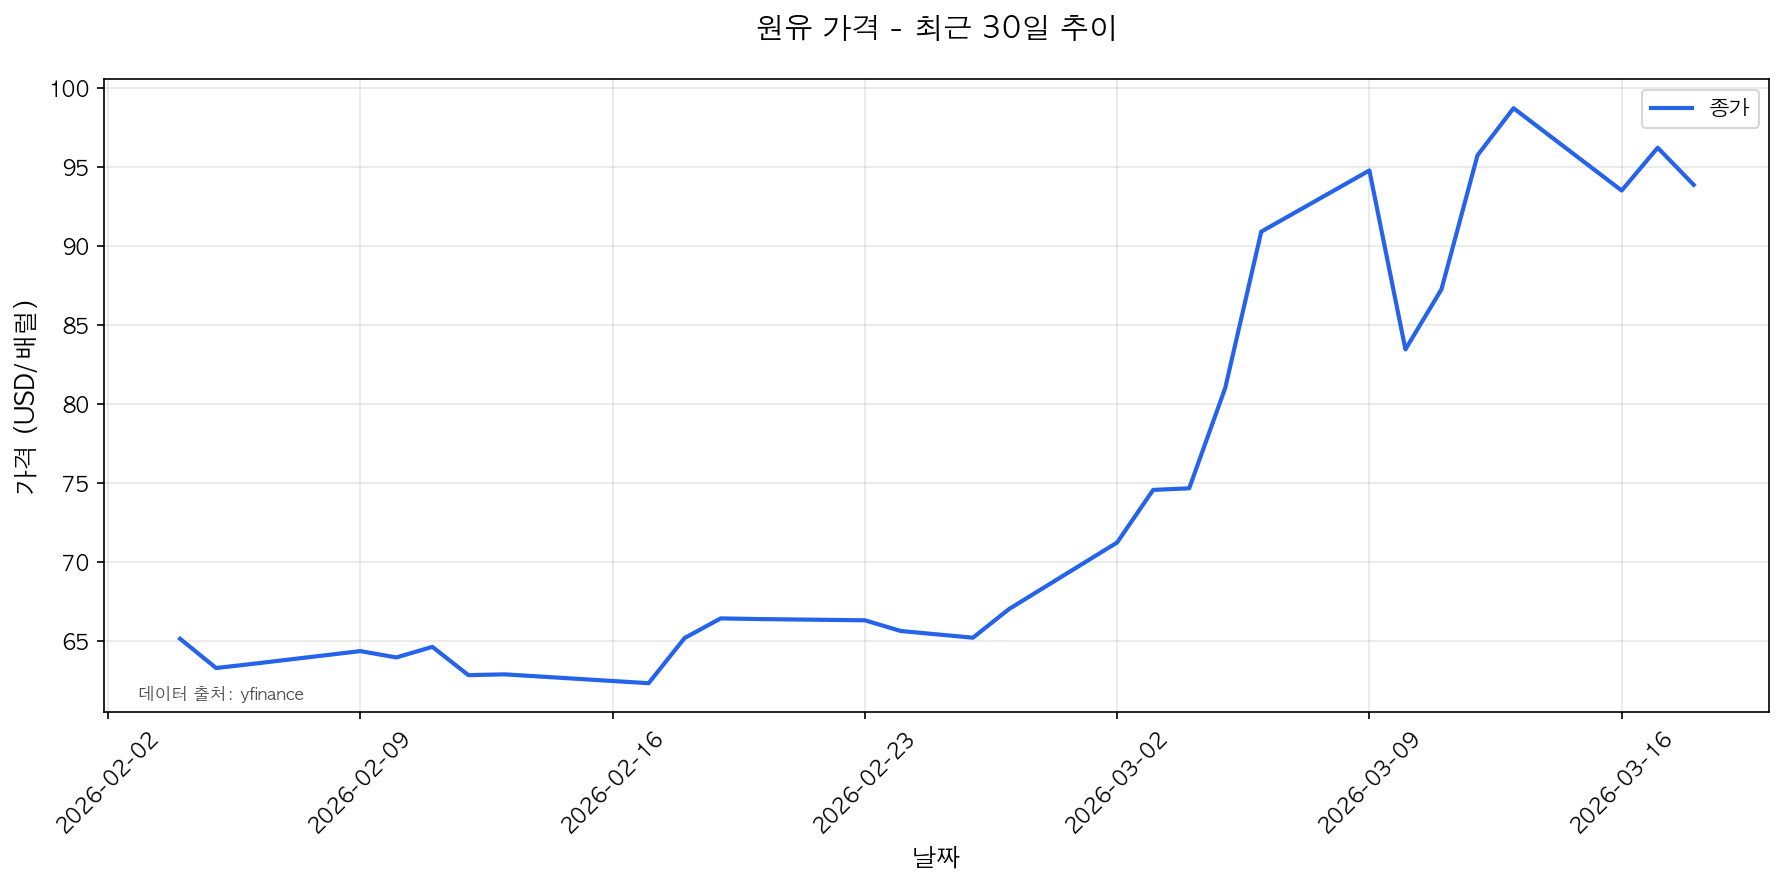
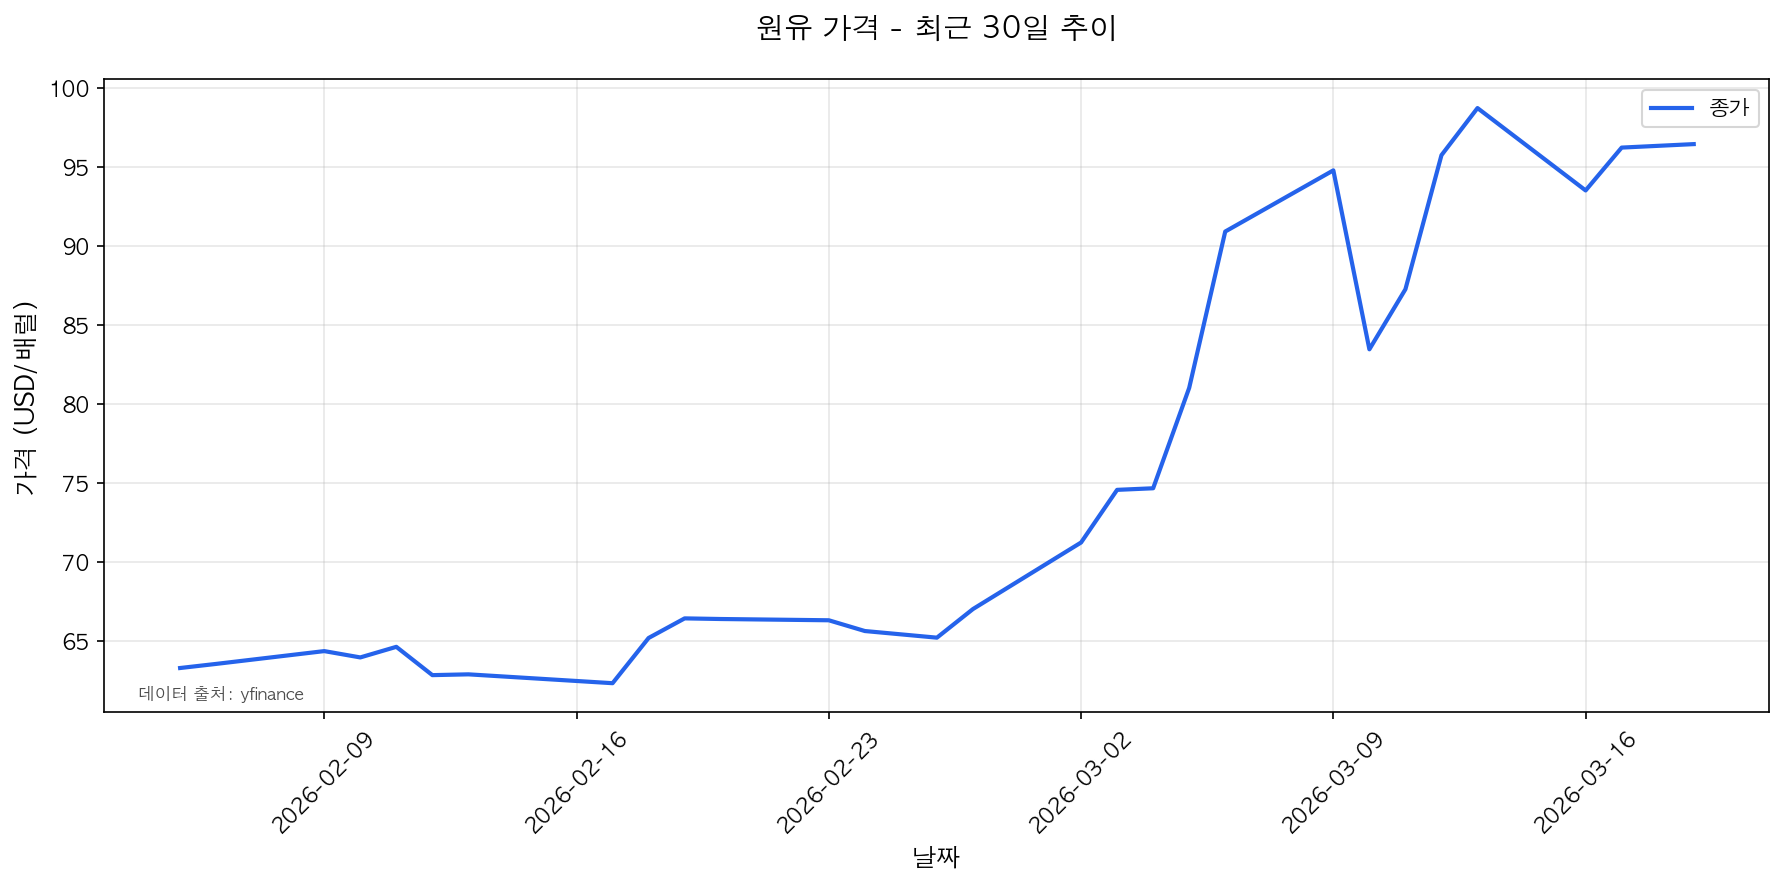
Update economic trends analysis - 2026-02-25 data refresh

diff --git a/_posts/2026-03-19-economic-trends-analysis.md b/_posts/2026-03-19-economic-trends-analysis.md
@@ -20,32 +20,32 @@ description: "2026-03-19 글로벌 및 한국 경제 동향 분석 - 환율, 주
 
 | 항목 | 현재 가격 | 시작 가격 | 변동 | 변동률 | 기간 중 최고 | 최고 날짜 | 기간 중 최저 | 최저 날짜 |
 |------|----------|----------|------|--------|------------|----------|------------|----------|
-| 구리 (Copper) | 5.52 USD/pound | 5.83 USD/pound | -0.31 USD/pound | 📉 -5.30% | 6.0 USD/pound | 2026-02-27 | 5.52 USD/pound | 2026-03-18 |
-| 금 (Gold) | 4858.0 USD/oz | 4920.4 USD/oz | -62.40 USD/oz | 📉 -1.27% | 5294.4 USD/oz | 2026-03-02 | 4858.0 USD/oz | 2026-03-18 |
-| 백금 (Platinum) | 2022.8 USD/oz | 2162.7 USD/oz | -139.90 USD/oz | 📉 -6.47% | 2365.6 USD/oz | 2026-02-27 | 2012.5 USD/oz | 2026-02-17 |
-| 알루미늄 (Aluminum) | 3331.0 USD/ton | 2973.25 USD/ton | +357.75 USD/ton | 📈 +12.03% | 3464.0 USD/ton | 2026-03-12 | 2925.25 USD/ton | 2026-02-05 |
-| 은 (Silver) | 76.4 USD/oz | 84.17 USD/oz | -7.76 USD/oz | 📉 -9.22% | 92.68 USD/oz | 2026-02-27 | 73.45 USD/oz | 2026-02-17 |
+| 구리 (Copper) | 5.46 USD/pound | 5.8 USD/pound | -0.34 USD/pound | 📉 -5.86% | 6.0 USD/pound | 2026-02-27 | 5.46 USD/pound | 2026-03-19 |
+| 금 (Gold) | 4715.2 USD/oz | 4861.4 USD/oz | -146.20 USD/oz | 📉 -3.01% | 5294.4 USD/oz | 2026-03-02 | 4715.2 USD/oz | 2026-03-19 |
+| 백금 (Platinum) | 1936.6 USD/oz | 2061.6 USD/oz | -125.00 USD/oz | 📉 -6.06% | 2365.6 USD/oz | 2026-02-27 | 1936.6 USD/oz | 2026-03-19 |
+| 알루미늄 (Aluminum) | 3247.0 USD/ton | 2925.25 USD/ton | +321.75 USD/ton | 📈 +11.00% | 3464.0 USD/ton | 2026-03-12 | 2925.25 USD/ton | 2026-02-05 |
+| 은 (Silver) | 71.51 USD/oz | 76.53 USD/oz | -5.01 USD/oz | 📉 -6.55% | 92.68 USD/oz | 2026-02-27 | 71.51 USD/oz | 2026-03-19 |
 
 
 ### 원료
 
 | 항목 | 현재 가격 | 시작 가격 | 변동 | 변동률 | 기간 중 최고 | 최고 날짜 | 기간 중 최저 | 최저 날짜 |
 |------|----------|----------|------|--------|------------|----------|------------|----------|
-| Brent 원유 (Brent Crude) | 106.93 USD/배럴 | 69.46 USD/배럴 | +37.47 USD/배럴 | 📈 +53.94% | 106.93 USD/배럴 | 2026-03-18 | 67.42 USD/배럴 | 2026-02-17 |
-| WTI 원유 (WTI Crude) | 96.48 USD/배럴 | 65.14 USD/배럴 | +31.34 USD/배럴 | 📈 +48.11% | 98.71 USD/배럴 | 2026-03-13 | 62.33 USD/배럴 | 2026-02-17 |
-| 천연가스 (Natural Gas) | 3.25 USD/MMBtu | 3.46 USD/MMBtu | -0.21 USD/MMBtu | 📉 -6.20% | 3.51 USD/MMBtu | 2026-02-05 | 2.83 USD/MMBtu | 2026-02-26 |
-| 팔라듐 (Palladium) | 1503.5 USD/oz | 1726.2 USD/oz | -222.70 USD/oz | 📉 -12.90% | 1834.1 USD/oz | 2026-02-25 | 1503.5 USD/oz | 2026-03-18 |
-| 휘발유 (RBOB Gasoline) | 3.15 USD/갤런 | 1.97 USD/갤런 | +1.19 USD/갤런 | 📈 +60.38% | 3.15 USD/갤런 | 2026-03-18 | 1.91 USD/갤런 | 2026-02-13 |
+| Brent 원유 (Brent Crude) | 110.7 USD/배럴 | 67.55 USD/배럴 | +43.15 USD/배럴 | 📈 +63.88% | 110.7 USD/배럴 | 2026-03-19 | 67.42 USD/배럴 | 2026-02-17 |
+| WTI 원유 (WTI Crude) | 97.3 USD/배럴 | 63.29 USD/배럴 | +34.01 USD/배럴 | 📈 +53.74% | 98.71 USD/배럴 | 2026-03-13 | 62.33 USD/배럴 | 2026-02-17 |
+| 천연가스 (Natural Gas) | 3.22 USD/MMBtu | 3.51 USD/MMBtu | -0.29 USD/MMBtu | 📉 -8.35% | 3.51 USD/MMBtu | 2026-02-05 | 2.83 USD/MMBtu | 2026-02-26 |
+| 팔라듐 (Palladium) | 1451.0 USD/oz | 1688.9 USD/oz | -237.90 USD/oz | 📉 -14.09% | 1834.1 USD/oz | 2026-02-25 | 1451.0 USD/oz | 2026-03-19 |
+| 휘발유 (RBOB Gasoline) | 3.22 USD/갤런 | 1.93 USD/갤런 | +1.29 USD/갤런 | 📈 +66.90% | 3.22 USD/갤런 | 2026-03-19 | 1.91 USD/갤런 | 2026-02-13 |
 
 
 ### 농산물
 
 | 항목 | 현재 가격 | 시작 가격 | 변동 | 변동률 | 기간 중 최고 | 최고 날짜 | 기간 중 최저 | 최저 날짜 |
 |------|----------|----------|------|--------|------------|----------|------------|----------|
-| 대두 (Soybeans) | 1161.5 USD/bushel | 1092.25 USD/bushel | +69.25 USD/bushel | 📈 +6.34% | 1213.0 USD/bushel | 2026-03-12 | 1092.25 USD/bushel | 2026-02-04 |
-| 밀 (Wheat) | 606.0 USD/bushel | 526.75 USD/bushel | +79.25 USD/bushel | 📈 +15.05% | 618.5 USD/bushel | 2026-03-13 | 526.75 USD/bushel | 2026-02-04 |
-| 옥수수 (Corn) | 464.75 USD/bushel | 429.5 USD/bushel | +35.25 USD/bushel | 📈 +8.21% | 464.75 USD/bushel | 2026-03-18 | 425.75 USD/bushel | 2026-02-19 |
-| 커피 (Coffee) | 292.55 USD/pound | 308.65 USD/pound | -16.10 USD/pound | 📉 -5.22% | 308.65 USD/pound | 2026-02-04 | 281.15 USD/pound | 2026-02-23 |
+| 대두 (Soybeans) | 1167.0 USD/bushel | 1112.25 USD/bushel | +54.75 USD/bushel | 📈 +4.92% | 1213.0 USD/bushel | 2026-03-12 | 1110.75 USD/bushel | 2026-02-09 |
+| 밀 (Wheat) | 613.25 USD/bushel | 535.25 USD/bushel | +78.00 USD/bushel | 📈 +14.57% | 618.5 USD/bushel | 2026-03-13 | 528.25 USD/bushel | 2026-02-10 |
+| 옥수수 (Corn) | 468.25 USD/bushel | 435.0 USD/bushel | +33.25 USD/bushel | 📈 +7.64% | 468.25 USD/bushel | 2026-03-19 | 425.75 USD/bushel | 2026-02-19 |
+| 커피 (Coffee) | 294.45 USD/pound | 308.4 USD/pound | -13.95 USD/pound | 📉 -4.52% | 308.4 USD/pound | 2026-02-05 | 281.15 USD/pound | 2026-02-23 |
 
 
 ### 환율
@@ -53,15 +53,15 @@ description: "2026-03-19 글로벌 및 한국 경제 동향 분석 - 환율, 주
 | 항목 | 현재 가격 | 시작 가격 | 변동 | 변동률 | 기간 중 최고 | 최고 날짜 | 기간 중 최저 | 최저 날짜 |
 |------|----------|----------|------|--------|------------|----------|------------|----------|
 | EUR/USD | 1.15 USD | 1.18 USD | -0.03 USD | 📉 -2.48% | 1.19 USD | 2026-02-10 | 1.14 USD | 2026-03-16 |
-| USD/JPY | 159.65 JPY | 156.78 JPY | +2.87 JPY | 📈 +1.83% | 159.65 JPY | 2026-03-19 | 152.78 JPY | 2026-02-16 |
-| USD/KRW | 1498.68 원 | 1470.68 원 | +28.00 원 | 📈 +1.90% | 1501.75 원 | 2026-03-16 | 1426.93 원 | 2026-02-26 |
+| USD/JPY | 159.12 JPY | 156.78 JPY | +2.34 JPY | 📈 +1.49% | 159.57 JPY | 2026-03-16 | 152.78 JPY | 2026-02-16 |
+| USD/KRW | 1496.48 원 | 1470.68 원 | +25.80 원 | 📈 +1.75% | 1501.75 원 | 2026-03-16 | 1426.93 원 | 2026-02-26 |
 
 
 ### 변동성
 
 | 항목 | 현재 가격 | 시작 가격 | 변동 | 변동률 | 기간 중 최고 | 최고 날짜 | 기간 중 최저 | 최저 날짜 |
 |------|----------|----------|------|--------|------------|----------|------------|----------|
-| VIX 지수 | 25.09 지수 | 18.64 지수 | +6.45 지수 | 📈 +34.60% | 29.49 지수 | 2026-03-06 | 17.36 지수 | 2026-02-09 |
+| VIX 지수 | 26.16 지수 | 21.77 지수 | +4.39 지수 | 📈 +20.17% | 29.49 지수 | 2026-03-06 | 17.36 지수 | 2026-02-09 |
 
 
 ### 주식지수
@@ -69,7 +69,7 @@ description: "2026-03-19 글로벌 및 한국 경제 동향 분석 - 환율, 주
 | 항목 | 현재 가격 | 시작 가격 | 변동 | 변동률 | 기간 중 최고 | 최고 날짜 | 기간 중 최저 | 최저 날짜 |
 |------|----------|----------|------|--------|------------|----------|------------|----------|
 | Dow Jones | 46225.15 지수 | 49501.3 지수 | -3276.15 지수 | 📉 -6.62% | 50188.14 지수 | 2026-02-10 | 46225.15 지수 | 2026-03-18 |
-| KOSPI | 5838.14 지수 | 4949.67 지수 | +888.47 지수 | 📈 +17.95% | 6307.27 지수 | 2026-02-26 | 4949.67 지수 | 2026-02-02 |
+| KOSPI | 5763.22 지수 | 4949.67 지수 | +813.55 지수 | 📈 +16.44% | 6307.27 지수 | 2026-02-26 | 4949.67 지수 | 2026-02-02 |
 | Nasdaq 100 | 22152.42 지수 | 22904.58 지수 | -752.16 지수 | 📉 -3.28% | 23238.67 지수 | 2026-02-09 | 22105.36 지수 | 2026-03-13 |
 | S&P 500 | 6624.7 지수 | 6882.72 지수 | -258.02 지수 | 📉 -3.75% | 6964.82 지수 | 2026-02-09 | 6624.7 지수 | 2026-03-18 |
 
@@ -78,9 +78,9 @@ description: "2026-03-19 글로벌 및 한국 경제 동향 분석 - 환율, 주
 
 | 항목 | 현재 가격 | 시작 가격 | 변동 | 변동률 | 기간 중 최고 | 최고 날짜 | 기간 중 최저 | 최저 날짜 |
 |------|----------|----------|------|--------|------------|----------|------------|----------|
-| 비트코인 (Bitcoin) | 71050.74 USD | 67494.22 USD | +3556.52 USD | 📈 +5.27% | 74861.09 USD | 2026-03-16 | 64080.04 USD | 2026-02-24 |
-| 솔라나 (SOL) | 89.98 USD | 85.2 USD | +4.78 USD | 📈 +5.61% | 96.22 USD | 2026-03-16 | 77.75 USD | 2026-02-23 |
-| 이더리움 (Ethereum) | 2197.66 USD | 1992.19 USD | +205.46 USD | 📈 +10.31% | 2351.18 USD | 2026-03-16 | 1852.97 USD | 2026-02-24 |
+| 비트코인 (Bitcoin) | 70487.66 USD | 66425.32 USD | +4062.34 USD | 📈 +6.12% | 74861.09 USD | 2026-03-16 | 64080.04 USD | 2026-02-24 |
+| 솔라나 (SOL) | 89.96 USD | 81.57 USD | +8.39 USD | 📈 +10.29% | 96.22 USD | 2026-03-16 | 77.75 USD | 2026-02-23 |
+| 이더리움 (Ethereum) | 2184.97 USD | 1953.97 USD | +230.99 USD | 📈 +11.82% | 2351.18 USD | 2026-03-16 | 1852.97 USD | 2026-02-24 |
 
 
 ### 금리
@@ -98,19 +98,19 @@ description: "2026-03-19 글로벌 및 한국 경제 동향 분석 - 환율, 주
 
 ### 📈 상승한 항목
 
-- **휘발유 (RBOB Gasoline)**: +60.38% (1.97 → 3.15 USD/갤런)
-- **Brent 원유 (Brent Crude)**: +53.94% (69.46 → 106.93 USD/배럴)
-- **WTI 원유 (WTI Crude)**: +48.11% (65.14 → 96.48 USD/배럴)
-- **VIX 지수**: +34.60% (18.64 → 25.09 지수)
-- **KOSPI**: +17.95% (4949.67 → 5838.14 지수)
+- **휘발유 (RBOB Gasoline)**: +66.90% (1.93 → 3.22 USD/갤런)
+- **Brent 원유 (Brent Crude)**: +63.88% (67.55 → 110.7 USD/배럴)
+- **WTI 원유 (WTI Crude)**: +53.74% (63.29 → 97.3 USD/배럴)
+- **VIX 지수**: +20.17% (21.77 → 26.16 지수)
+- **KOSPI**: +16.44% (4949.67 → 5763.22 지수)
 
 ### 📉 하락한 항목
 
-- **팔라듐 (Palladium)**: -12.90% (1726.2 → 1503.5 USD/oz)
-- **은 (Silver)**: -9.22% (84.17 → 76.4 USD/oz)
+- **팔라듐 (Palladium)**: -14.09% (1688.9 → 1451.0 USD/oz)
+- **천연가스 (Natural Gas)**: -8.35% (3.51 → 3.22 USD/MMBtu)
 - **Dow Jones**: -6.62% (49501.3 → 46225.15 지수)
-- **백금 (Platinum)**: -6.47% (2162.7 → 2022.8 USD/oz)
-- **천연가스 (Natural Gas)**: -6.20% (3.46 → 3.25 USD/MMBtu)
+- **은 (Silver)**: -6.55% (76.53 → 71.51 USD/oz)
+- **백금 (Platinum)**: -6.06% (2061.6 → 1936.6 USD/oz)
 
 ---
 
